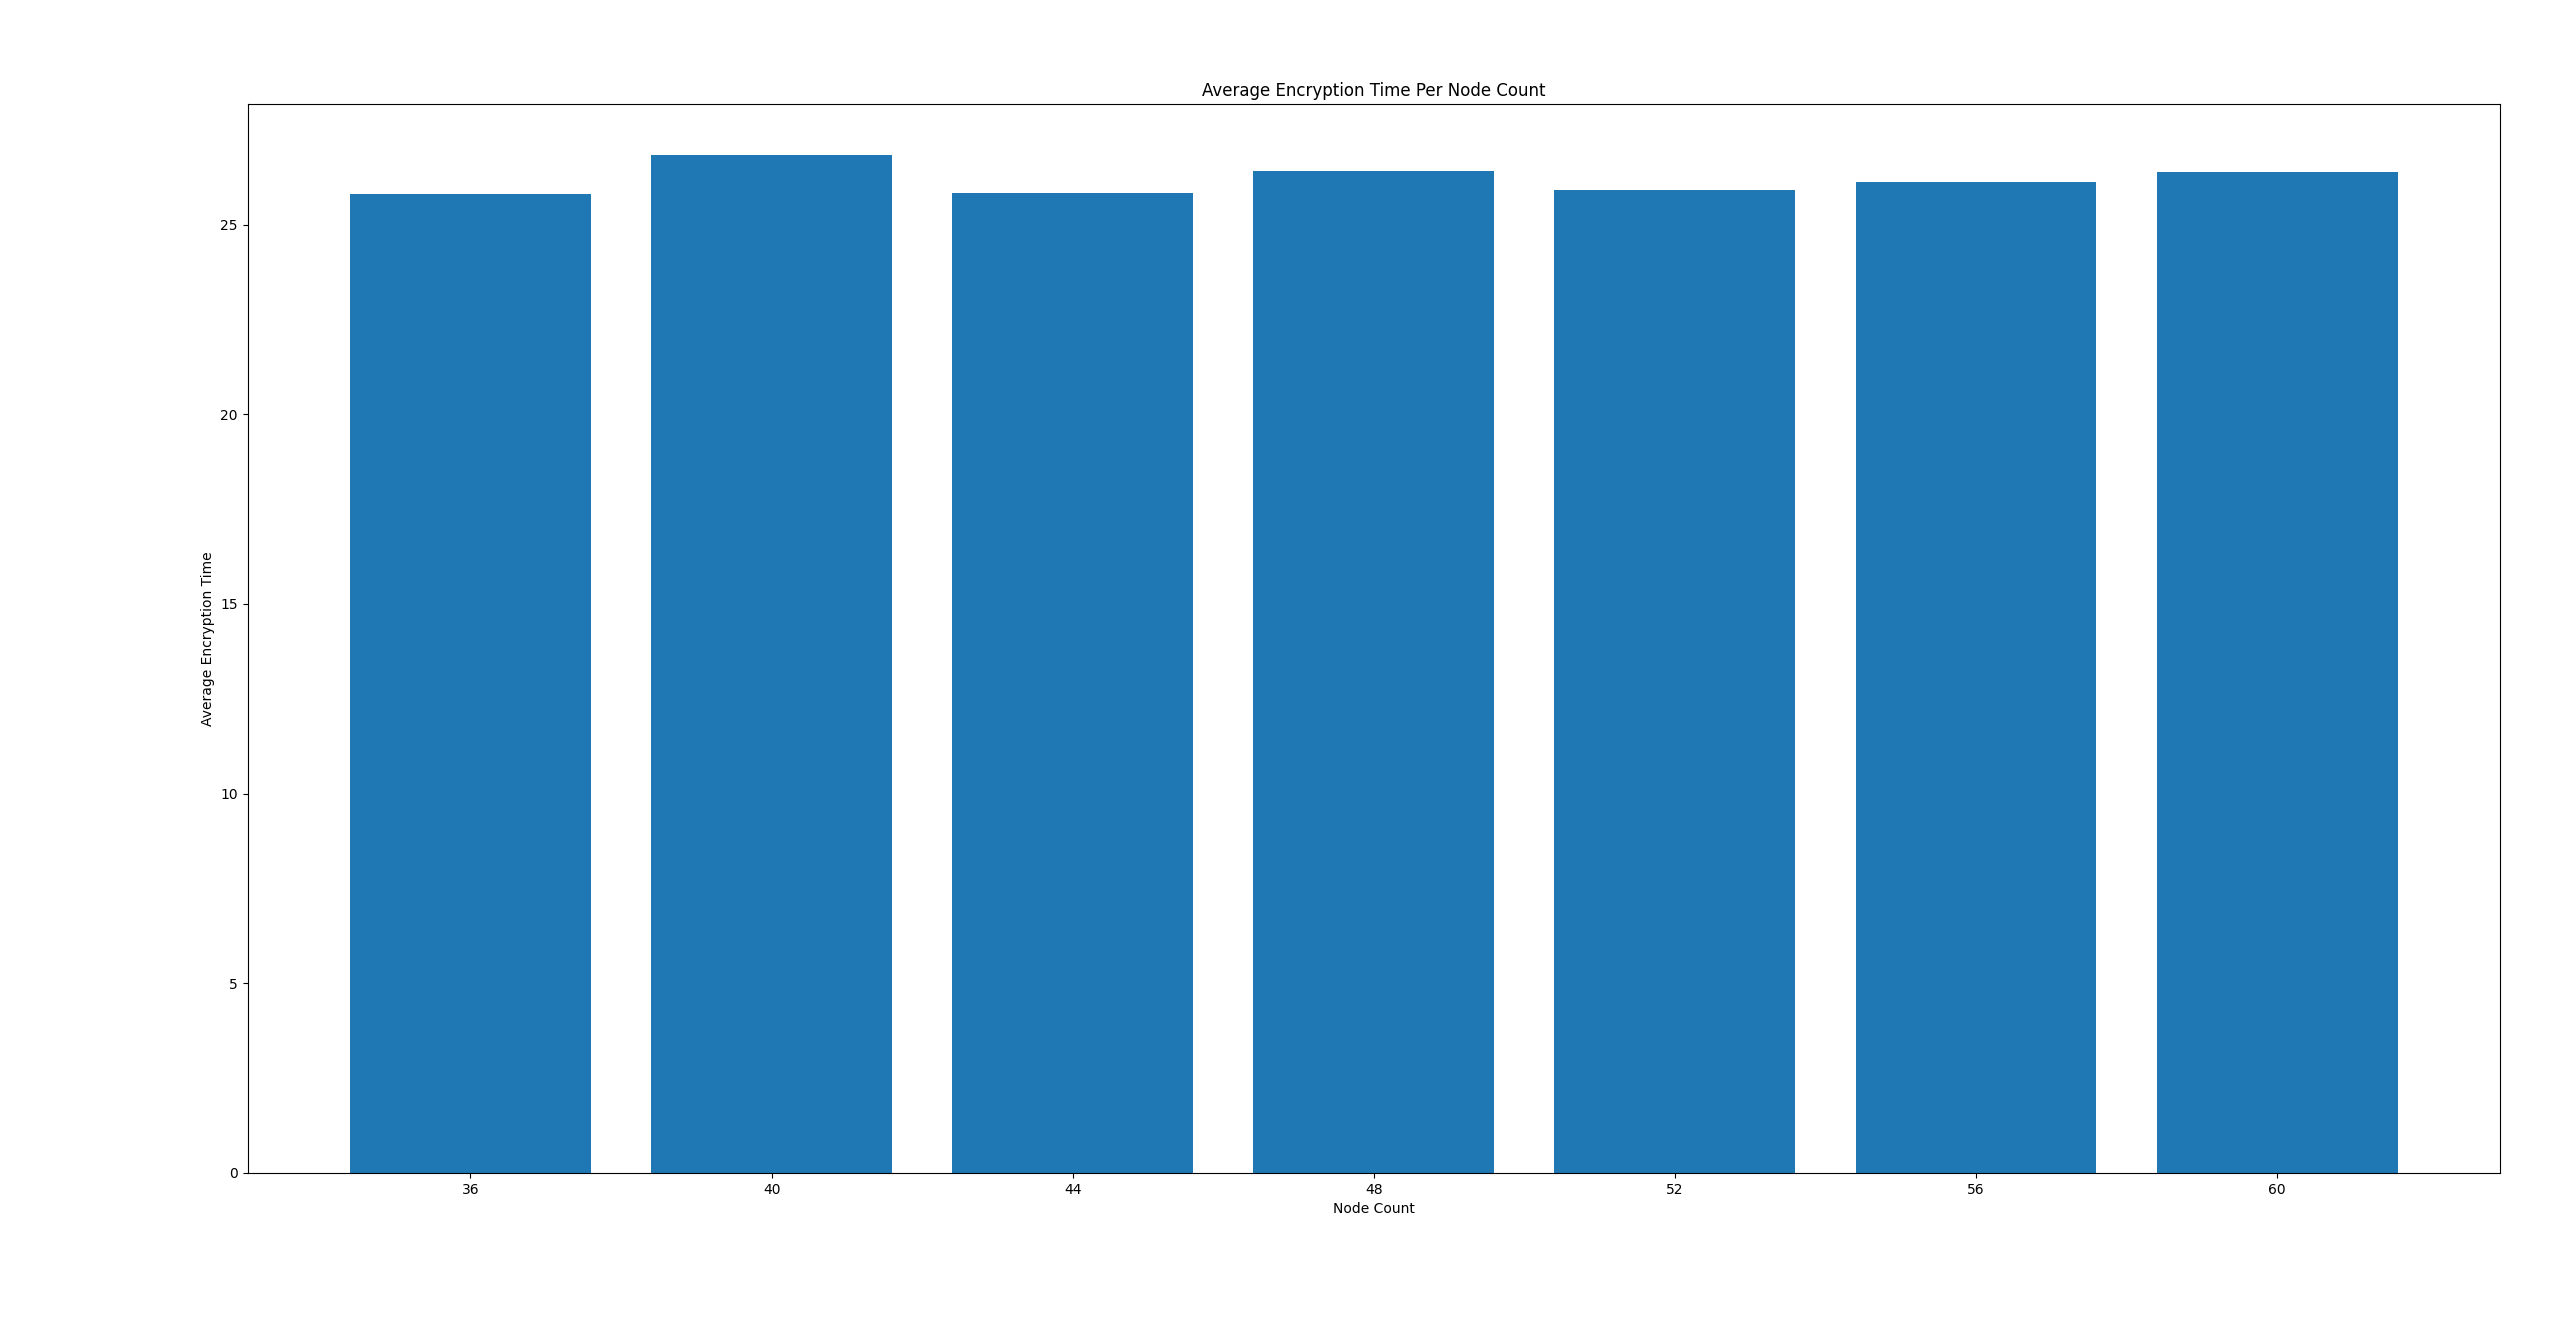
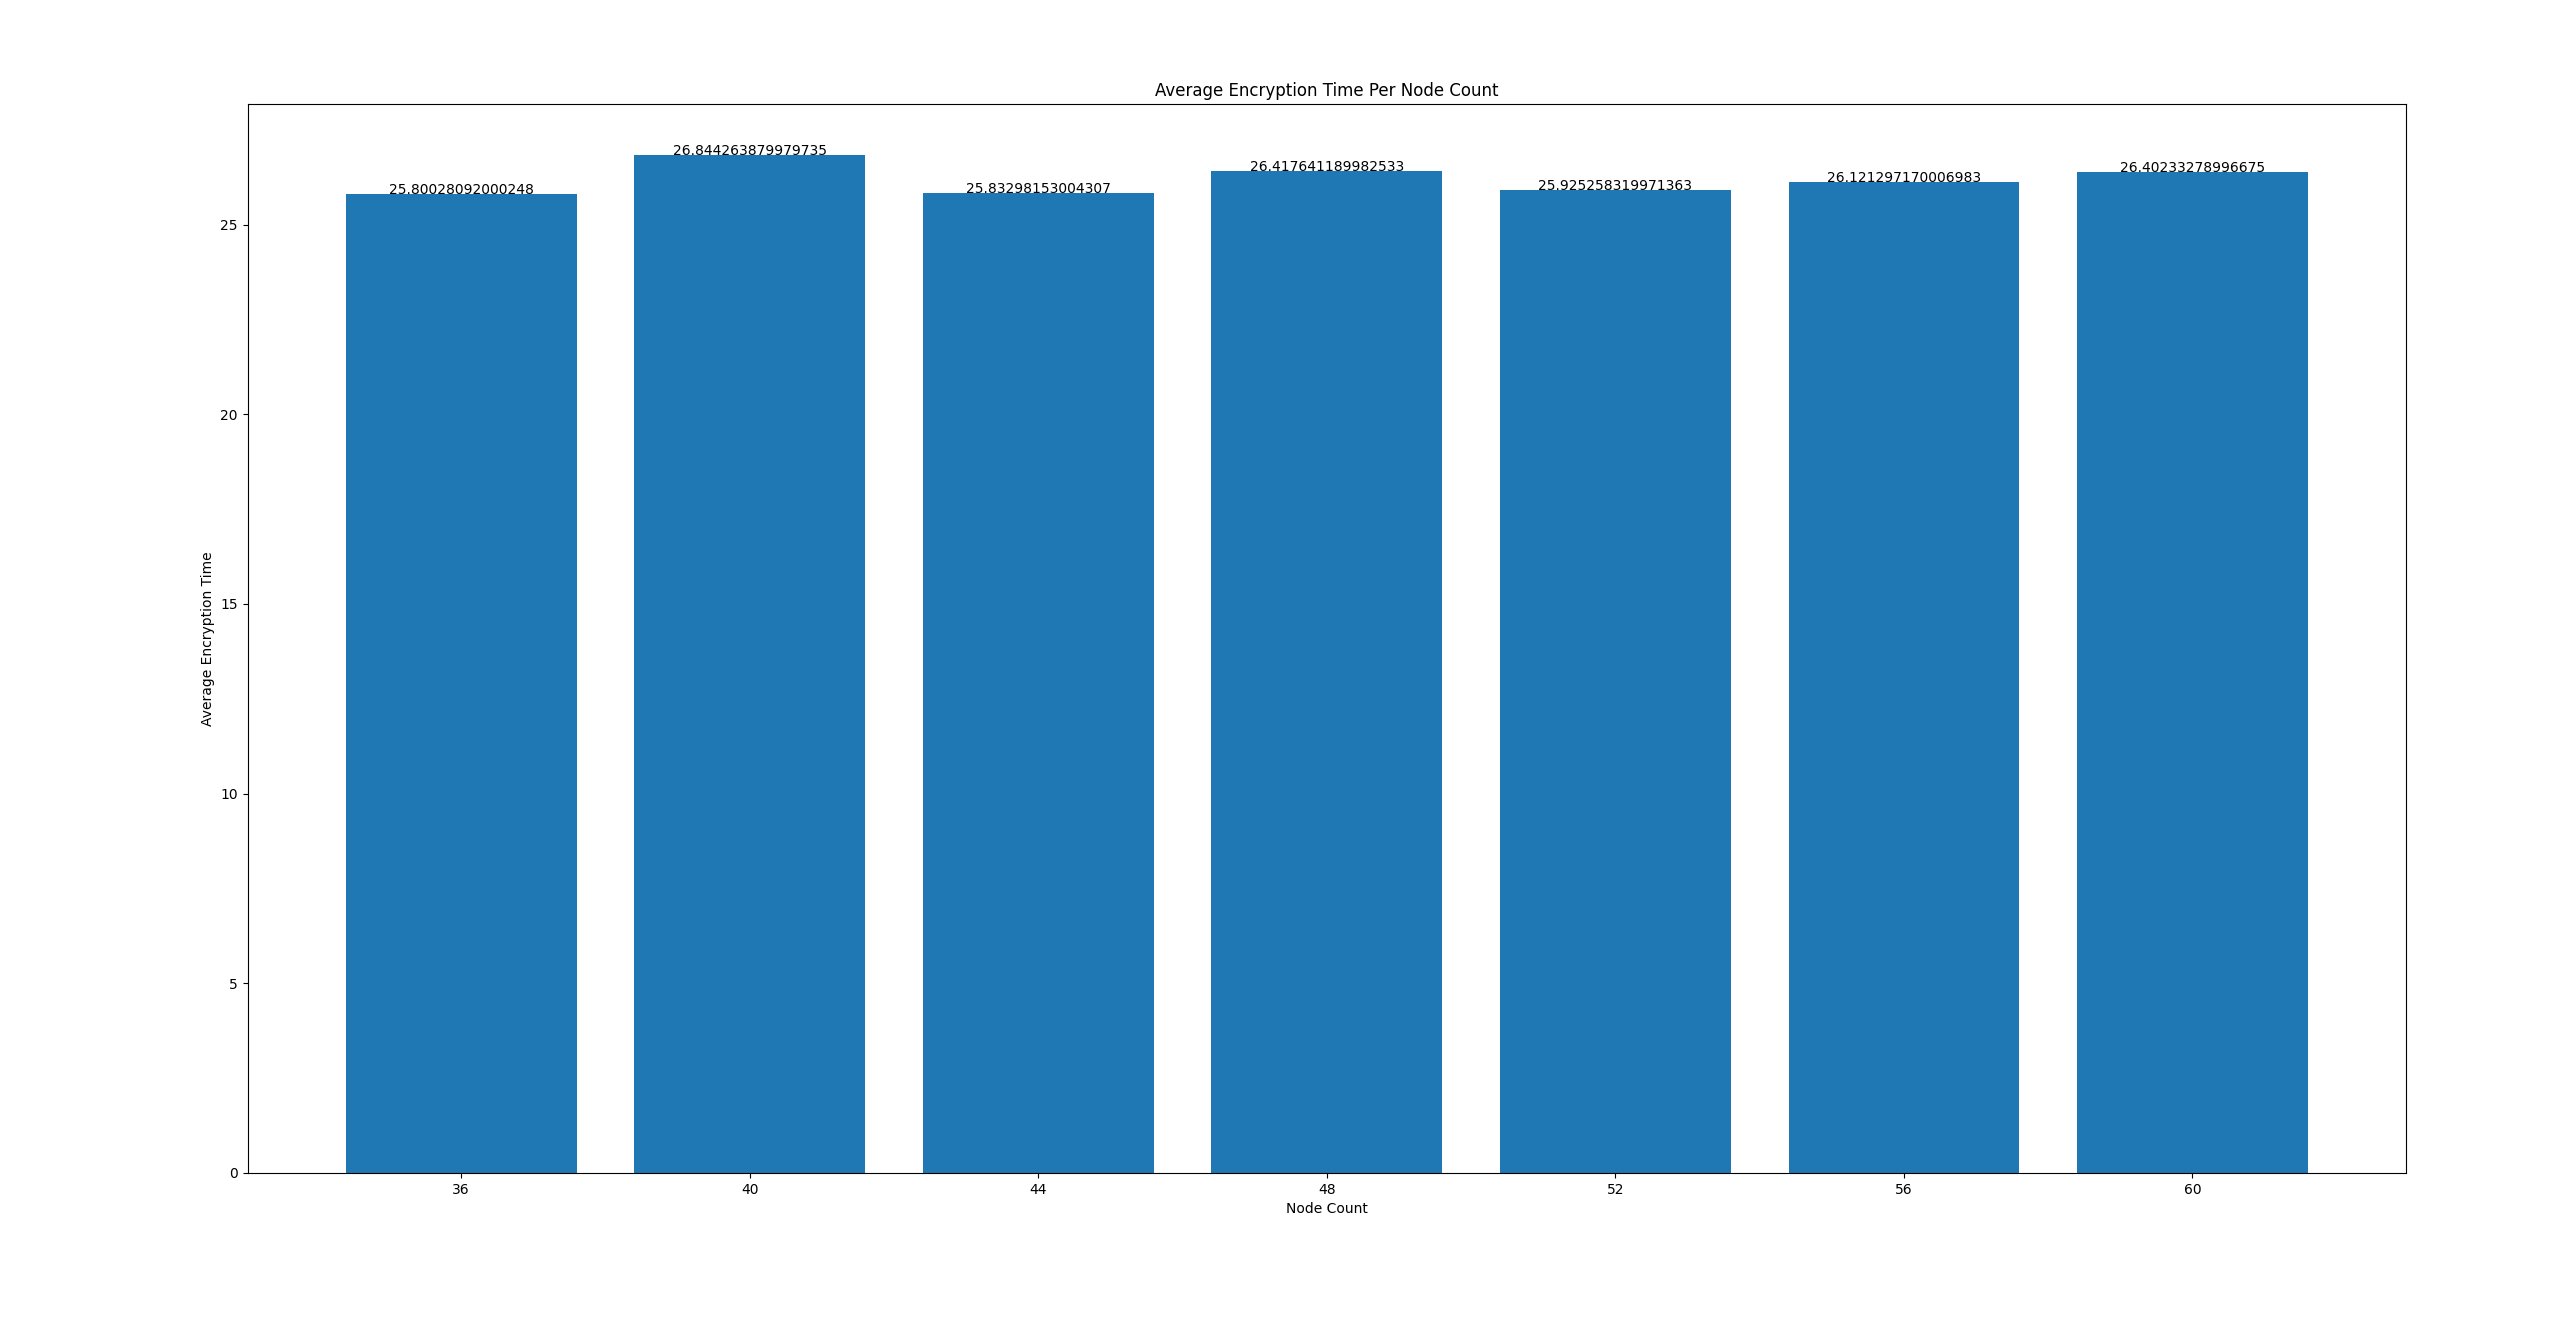
fixed labeling

diff --git a/plotter.py b/plotter.py
@@ -59,7 +59,9 @@ def getNodeCounts(array):
         else:
             countDict[value['nodeCount']]=1
     return countDict
-
+def addlabels(x,y):
+    for i in range(len(x)):
+        plt.text(i, y[i], y[i], ha = 'center')
 
 if __name__ == "__main__":
     result=readCSV()
@@ -83,23 +85,13 @@ if __name__ == "__main__":
         avgMSE.append(value['avgMSE'])     
 
     x = np.arange(len(nodeCounts))  # the label locations
-    width = 0.25  # the width of the bars
-
-    
-    
-    # rects2 = ax.bar(x + width/2, avgReferenceExecutionTime, width, label='Average Reference Exection Time ')
-
-    # Add some text for labels, title and custom x-axis tick labels, etc.
-    plt.ylabel('Average MSE')
+    plt.ylabel('Average Compile Time')
     plt.xlabel('Node Count')
-    plt.title('Average MSE Per Node Count')
+    plt.title('Average compile Time Per Node Count')
     plt.xticks(x,nodeCounts)
-    # plt.bar_label(rects1, padding=3)
-    plt.bar(nodeCounts.keys(), avgMSE)
-    # ax.bar_label(rects2, padding=3)
-
+    plt.bar(nodeCounts.keys(), avgCompileTime)
+    addlabels(nodeCounts.keys(), avgCompileTime)
     plt.tight_layout()
-
     plt.show()
         
     
